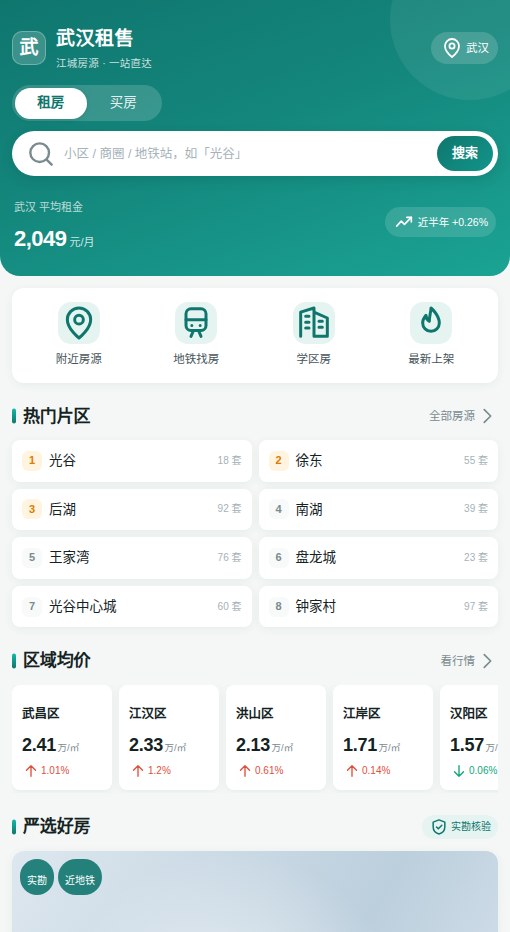
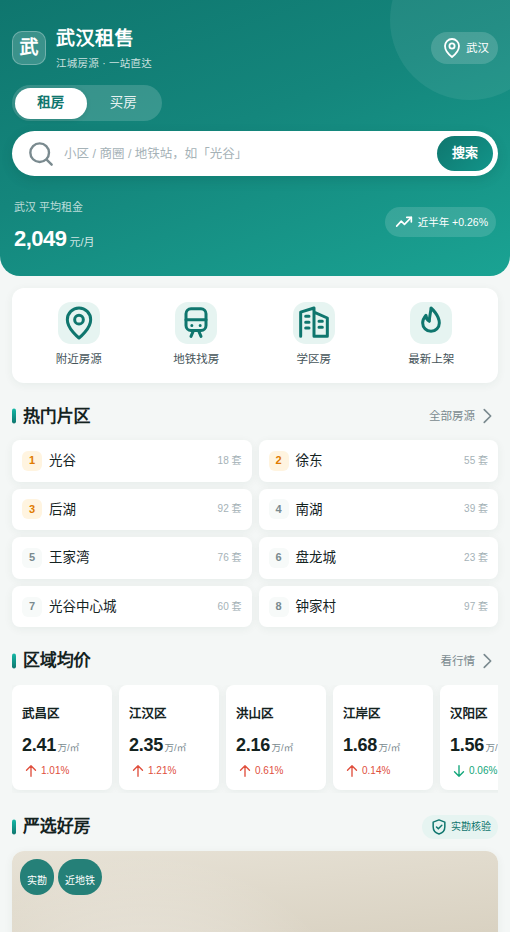
fix: 工程配置移到仓库根目录，避免 Taro 构建清空 weapp 时丢失；移除会中断构建的 copy 配置

diff --git a/frontend/config/index.ts b/frontend/config/index.ts
@@ -19,10 +19,9 @@ const config: UserConfigExport = {
     TARO_APP_API_URL: JSON.stringify(process.env.TARO_APP_API_URL || ''),
   },
   copy: {
-    patterns: [
-      // 微信开发者工具工程配置，随构建一起输出到 weapp/
-      { from: 'project.config.json', to: 'project.config.json' }
-    ],
+    // 微信开发者工具工程配置放在仓库根目录（不在构建产物内），
+    // 避免 Taro 每次构建清空 weapp/ 时被删除。
+    patterns: [],
     options: {}
   },
   framework: 'react',
